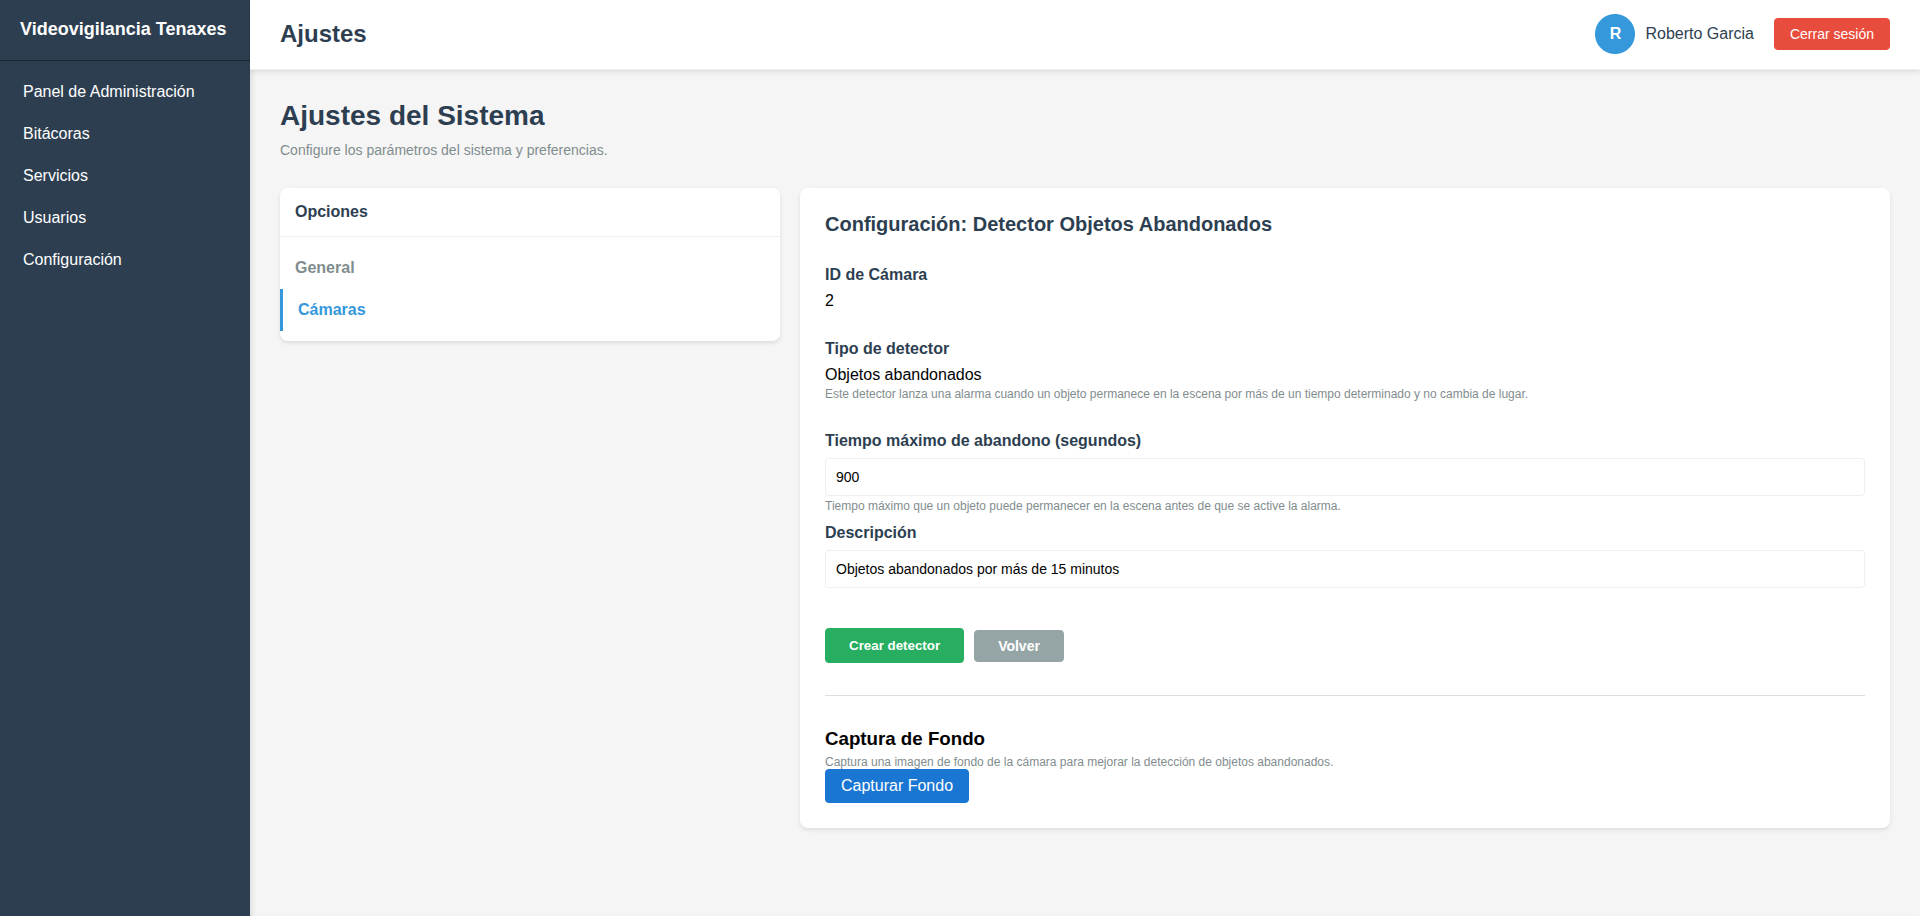
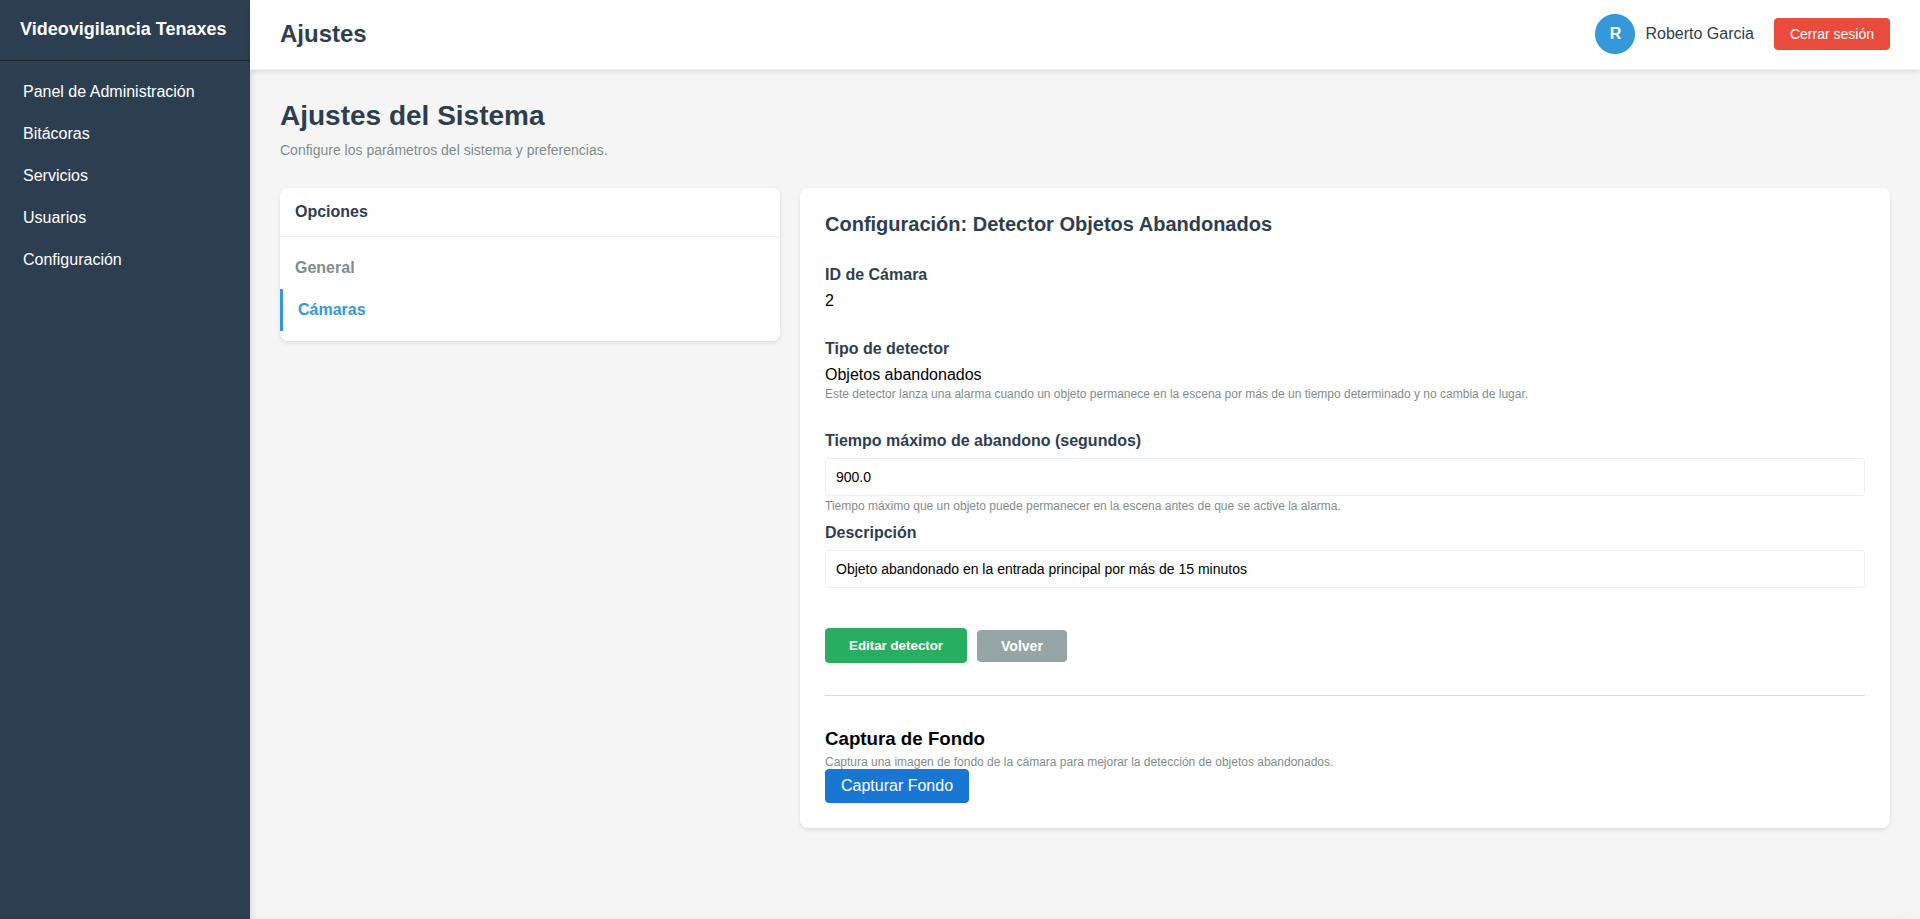
Finishing main README.md file

diff --git a/README.md b/README.md
@@ -57,7 +57,7 @@ cd video-surveillance-app
 pip install -r requirements.txt
 ```
 
-6. Crear y ejecutar un contenedor con Redis. Este se usa para el *almacenamento compartido entre cámaras* y para el envío de notificaciones en la aplicación.
+6. Crear y ejecutar un contenedor con Redis. Éste se usa para el *caché Redis* y para el envío de notificaciones en la aplicación.
 
 ```bash
 docker run -p 6379:6379 -p 8001:8001 --rm -d --name redis redis/redis-stack:latest
@@ -99,7 +99,7 @@ python run.py
 
 La mayoría de las cámaras IP implementan el protocolo RTSP como un protocolo de envío de video secundario. Este protocolo permite a aplicaciones de terceros acceder al video en tiempo real a través de una conexión de red local.
 
-Para un funcionamiento adecuado del sistema, la cámara debe estar conectada por Ethernet, ya que las conexiones WiFi son más lentas e inestables.
+Para un funcionamiento adecuado del sistema, la cámara debe estar conectada por cable ethernet, ya que las conexiones WiFi son más lentas e inestables.
 
 1. Activar el protocolo desde la aplicación del proveedor. Para cámaras Ezviz, revisar [RTSP en Ezviz](https://svtclti.com/manuales/CCTV/CAMARAS/EZVIZ/C%C3%B3mo%20activar%20RTSP%20en%20Ezviz.pdf).
 
@@ -145,9 +145,11 @@ Se considera como objeto abandonado a objetos de tipo bolsas o desconocido que p
 <img src="./images/add_abandoned.png" width="800" alt="Agregar detector de abandono">
 </p>
 
-Además, el detector necesita calcular el fondo de referencia de la escena. Para ello se debe esperar a que la escena esté en su estado base, es decir, sin objetos temporales (puede haber personas caminando), y se debe hacer clic en el botón de *Capturar Fondo*. Al dar click en el botón se capturará el fondo de la escena y se mostrará.
+Además, el detector necesita calcular el fondo de referencia de la escena. Para ello se debe esperar a que la escena esté en su estado base, es decir, sin objetos temporales (puede haber personas caminando), y se debe hacer clic en el botón de *Capturar Fondo*. Al dar click en el botón se capturarán 300 frames para promediar el fondo de la escena.
 
-#Agregar imagen#
+<p align="center">
+<img src="./images/get_background.png" width="800" alt="Obtener el fondo">
+</p>
 
 El fondo puede re-capturarse cuantas veces sea necesario.
 
@@ -155,17 +157,21 @@ El fondo puede re-capturarse cuantas veces sea necesario.
 
 Para la intrusión, primero se define un área restringida con un polígono dibujado en la imagen. Cuando una persona ingrese a esa área se considera como intrusión.
 
-Se utiliza la opción de *Agregar detector*. La aplicación capturará una imagen de la cámara, sobre la cual se debe dibujar un poligono dando clicks en la imagen. Una vez finalizado se da clic en *Finalizar polígono*.
+Se utiliza la opción de *Agregar detector*. La aplicación capturará una imagen de la cámara, sobre la cual se debe dibujar un polígono dando clics en la imagen. Una vez finalizado se da clic en *Finalizar polígono* y el programa conectará el último punto con el primero para finalizar.
 
-#Agregar imagen#
+<p align="center">
+<img src="./images/draw_polygon.png" width="800" alt="Dibujar polígono">
+</p>
 
 Posteriormente se configura el porcenaje del cuerpo de la persona que debe ingresar al polígono para que se considere como intrusión. Además, el sistema permite establecer un rango de horas en que el detector está activo, de esta forma la detección puede realizarse solo cuando es de noche, o fuera de horario laboral. Por defecto se aplica la detección 24hrs.
 
-#Agregar imagen#
+<p align="center">
+<img src="./images/add_intrusion.png" width="800" alt="Agregar detector de intrusión">
+</p>
 
 ### Armas
 
-Cuando un arma se detecta en la escena se lanza el evento, sin embargo, para evitar falsos positivos se establece un mínimo de tiempo que el arma debe ser detectada antes de lanzar el evento. Este valor se configura al utilizar la opción de *Agregar detector*, bajo la opción de *Tiempo de detección*, donde usualmente se configura un tiempo corto.
+Cuando un arma se detecta en la escena se lanza el evento, sin embargo, para evitar falsos positivos se establece un mínimo de tiempo que el arma debe ser detectada antes de lanzar el evento. Este valor se configura al utilizar la opción de *Agregar detector*, bajo la opción de *Tiempo de detección*, donde usualmente se configura un tiempo corto (1 segundo).
 
 <p align="center">
 <img src="./images/add_weapon.png" width="800" alt="Agregar detector de armas">
@@ -198,4 +204,13 @@ Este repositorio contiene el código fuente de la aplicación, separado en difer
 
 * **weights/:** Modelos en formato ONNX para la aplicación.
 
-* **compose.yml, Dockerfile:** Archivos de creación de contenedores para instalación de la aplicación en *Modo apliación* (instalación rápida pero limitada).
+* **samples/:** Videos de muestra con escenarios reales.
+
+    * `evaluation/` contiene los videos originales.
+    * `evaluation_detection/` contiene los videos procesados que muestra los eventos detectados con cajas de detección de colores.
+    * `features/` videos extra para mostrar alguna característica interesante del sistema.
+    * `features_detection/` videos extra procesados, no necesariamente se muestra detecciones de eventos. El archivo [README.md](./samples/features_detection/README.md) contiene una breve explicación de qué ver en cada video.
+
+* **images/:** Imágenes para la documentación.
+
+* **compose.yml, Dockerfile, entrypoint:** Archivos de creación de contenedores para instalación de la aplicación en *Modo aplicación* (instalación rápida pero limitada).